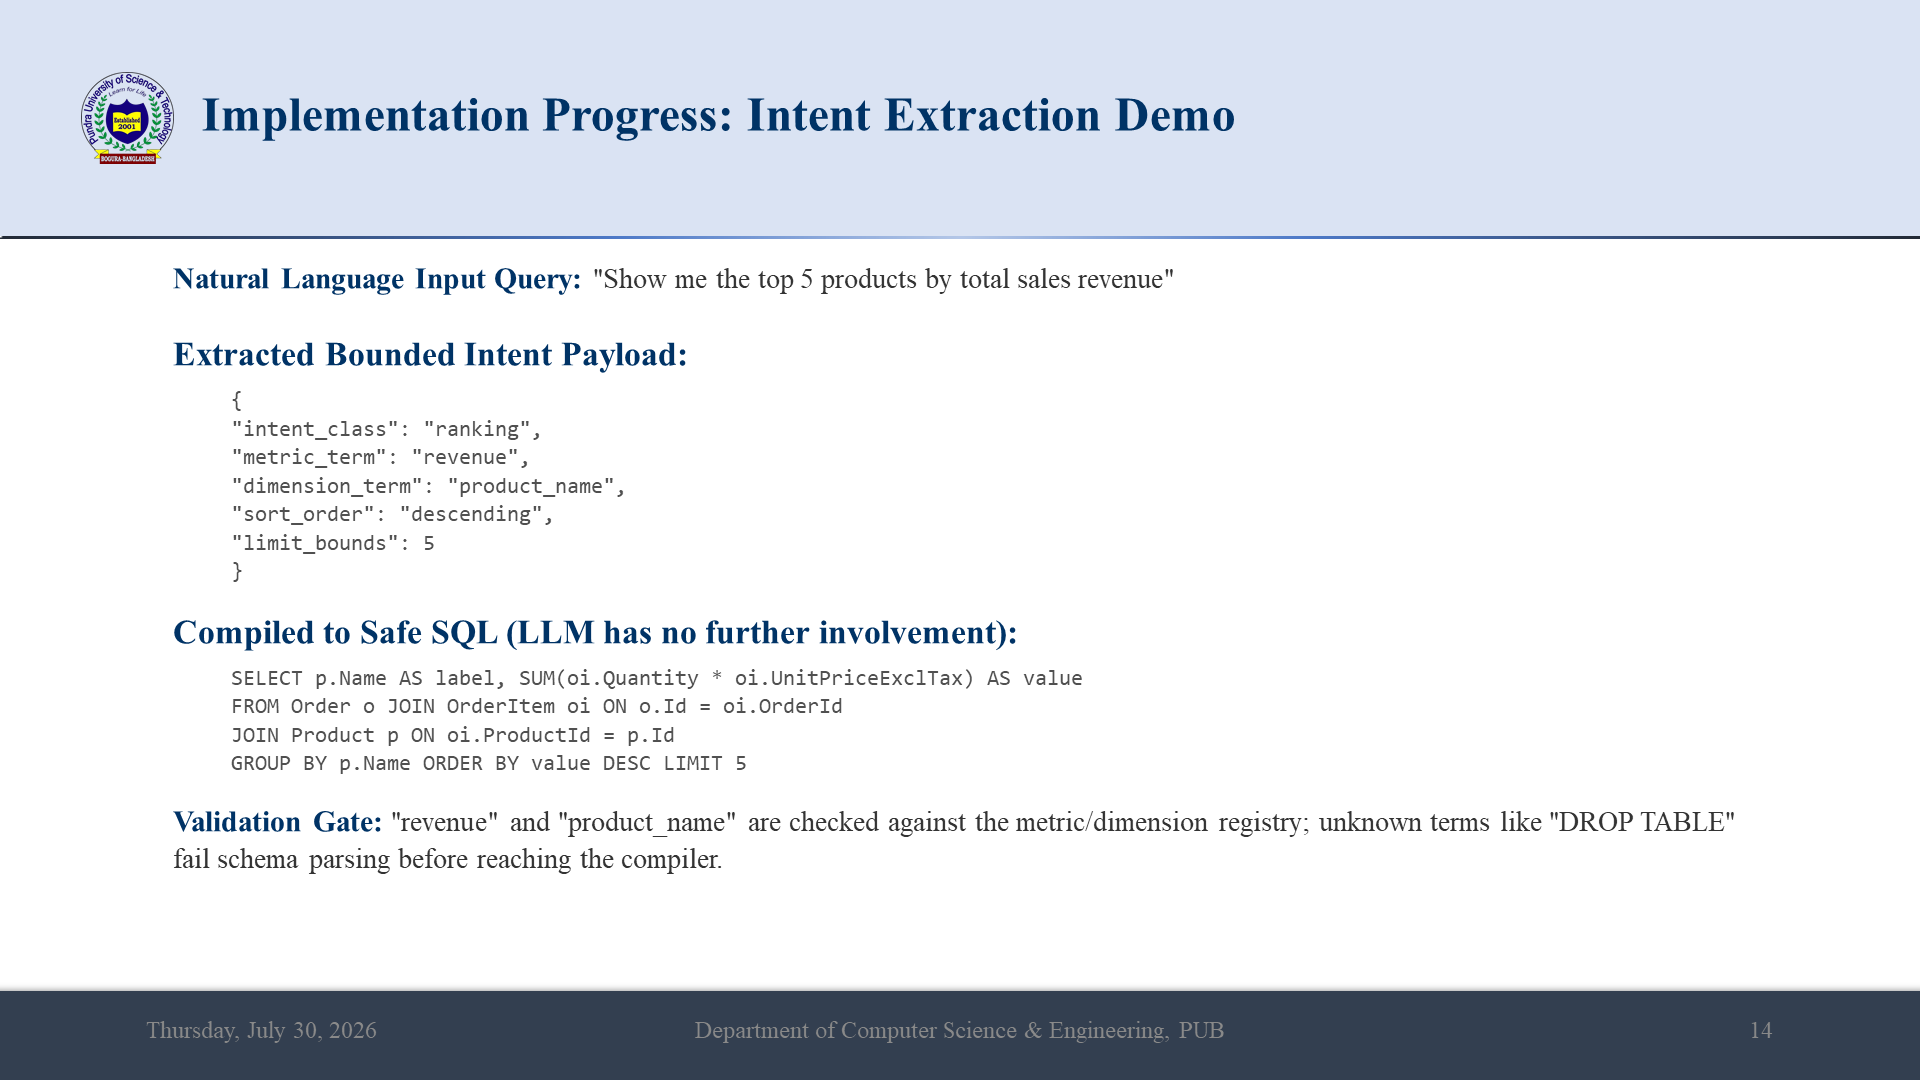
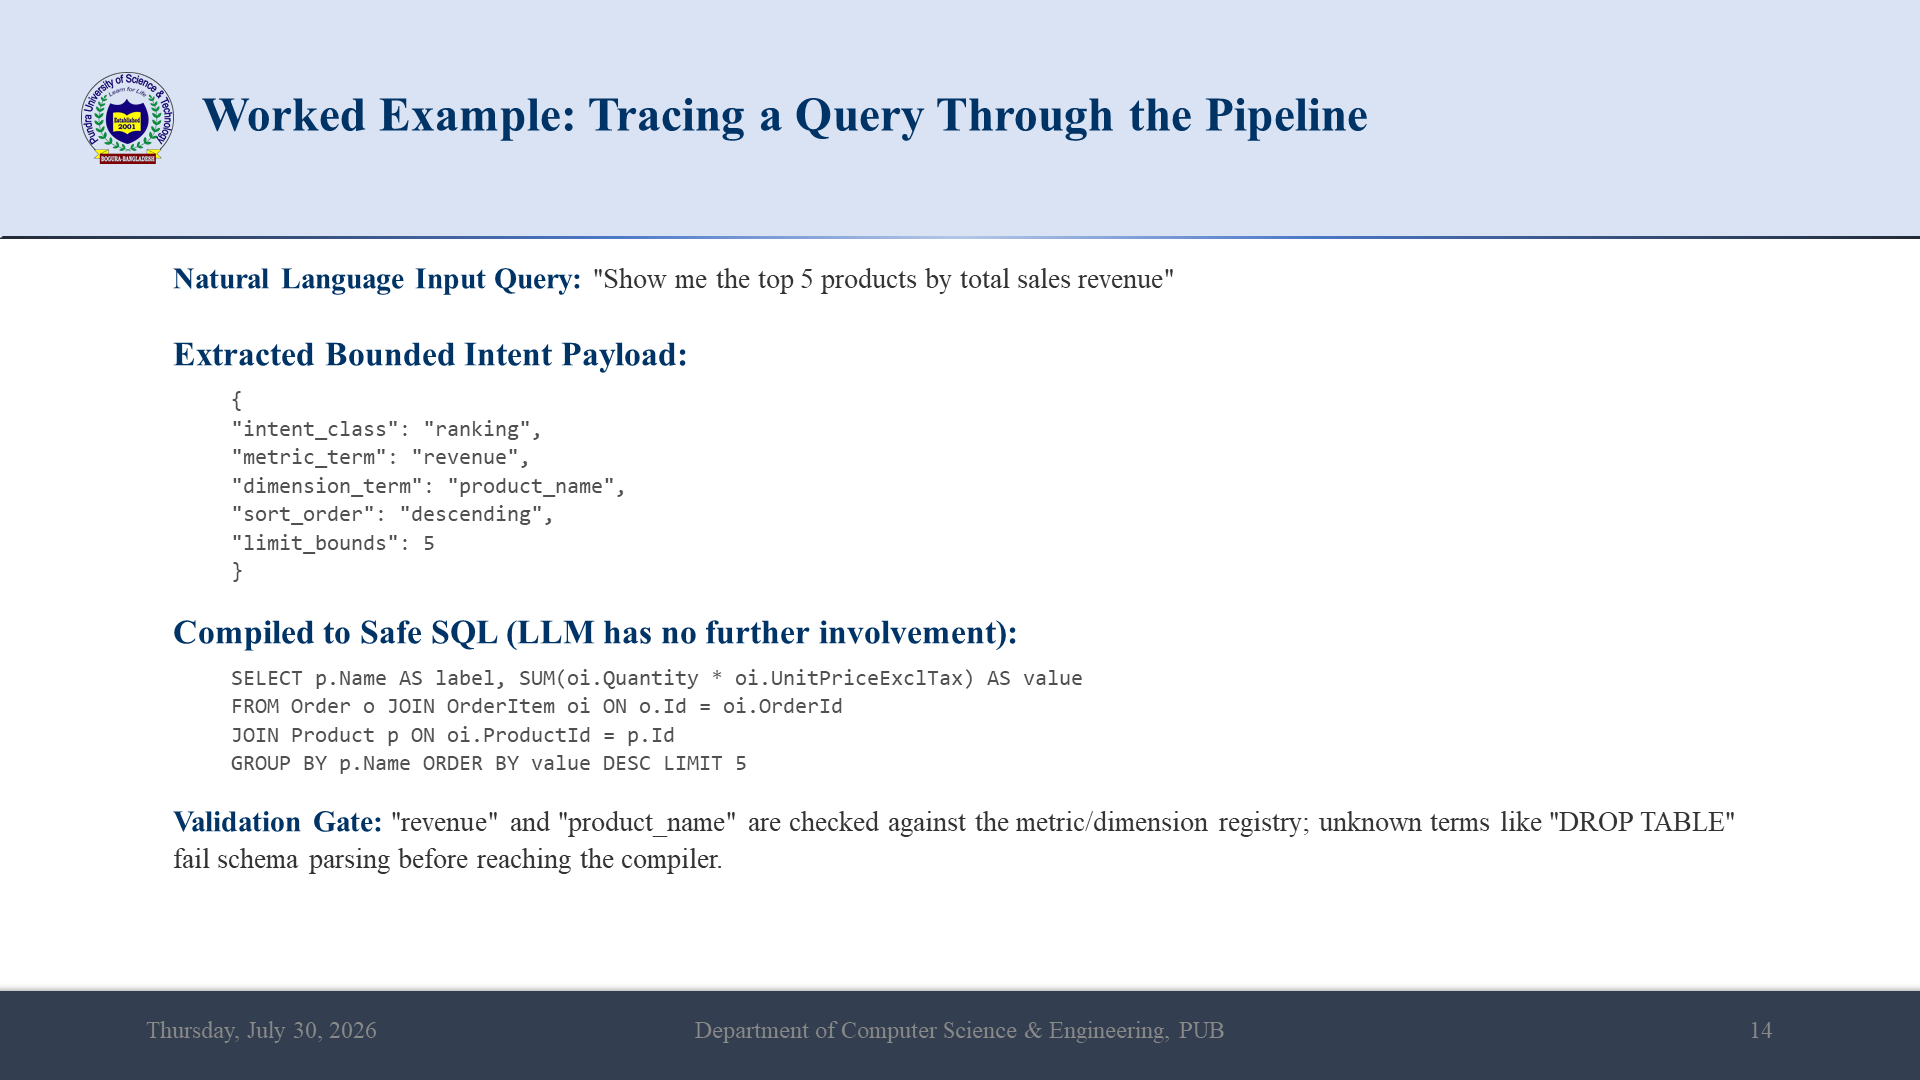
fix(presentation): reframe semantic layer & demo slides as research, not project
Two slides read like a software feature list rather than a thesis
contribution:

- Semantic layer slide led with "15 metrics, 34 dimensions, 11 join
  paths across 12 of 126 tables" as a headline coverage stat - sounds
  like justifying a product's limited scope. Reframed to lead with
  the actual research contribution (a bounded, auditable vocabulary
  that replaces direct schema access) and moved the concrete
  implementation numbers to speaker notes only, for use if the
  committee asks.
- "Implementation Progress: Intent Extraction Demo" was titled and
  framed as a software demo. Retitled to "Worked Example: Tracing a
  Query Through the Pipeline" and reframed the notes to present it as
  illustrating the formal no-SQL-generation claim, not showcasing
  prototype progress.

Swept the rest of the deck for similar phrasing; no other slides had it.

Changed region(s): [[0.0938, 0.0917, 0.7188, 0.1222]]

diff --git a/docs/scripts/generate_riaz_presentation.py b/docs/scripts/generate_riaz_presentation.py
@@ -472,9 +472,9 @@ def create_presentation():
     # -------------------------------------------------------------
     s10 = add_content_slide(
         "The Semantic Layer: Closed-Vocabulary Abstraction",
-        notes="AEGIS introduces a Closed-Vocabulary Semantic Layer. Instead of exposing raw database schemas, the model interacts only with pre-approved metrics and dimensions. Unexposed tables and system metadata remain completely isolated. Concretely: 15 metrics, 34 dimensions, and 11 join paths cover 12 of the 126 tables in the nopCommerce schema - the other 114 (logs, CMS, permissions, vendor data) are simply invisible to the model, which is implicit table-level access control built into the architecture."
+        notes="This is the core theoretical contribution: a finite registry of approved metrics and dimensions that bounds every reachable query to a Cartesian product of the two, rather than an unconstrained SQL string. If the committee asks for concrete numbers: the current nopCommerce prototype instantiates this model with 15 metrics and 34 dimensions across 11 join paths, touching 12 of the schema's 126 tables - the other 114 are system, CMS, and permission tables with no analytics relevance, so their exclusion isn't a coverage limitation, it is the access-control mechanism itself, working exactly as the formal model predicts."
     )
-    add_bullet_text(s10, "Current Semantic Layer Coverage (nopCommerce):\n• 15 metrics, 34 dimensions, 11 join paths across 12 of 126 schema tables.\n• The remaining 114 tables (system logs, CMS content, permissions, vendor data) are simply not in the model's vocabulary - implicit table-level access control by construction.\n\nHow a Question Becomes a Join Path:\n• Revenue by category: Order -> OrderItem -> Product -> Category (4 joins, found by BFS over the join graph)\n• Revenue by country: Order -> Address -> Country (2 joins)\n• The developer defines relationships once; the compiler resolves the shortest path automatically.\n\nSecurity Boundary Enforcement:\n• Any term requested outside the closed vocabulary is rejected by the validation parser before query compilation.", Inches(1.2), Inches(1.8), Inches(11.0), Inches(4.5), font_size=15)
+    add_bullet_text(s10, "The Research Contribution: A Bounded, Auditable Vocabulary\n• Two finite registries, approved metrics (M) and dimensions (D), replace direct schema access; every reachable query is a bounded (metric, dimension) pair, never an unconstrained SQL string.\n• Anything outside these registries is structurally invisible to the model - not a coverage gap, but the actual mechanism by which unauthorized access is prevented by construction.\n\nHow a Question Becomes a Join Path:\n• Revenue by category: Order -> OrderItem -> Product -> Category\n• Revenue by country: Order -> Address -> Country\n• Table relationships are defined once; the compiler finds the shortest path for any (metric, dimension) pair automatically via graph search.\n\nSecurity Boundary Enforcement:\n• Any term outside the closed vocabulary is rejected before query compilation - enforced by validation, not by convention.", Inches(1.2), Inches(1.8), Inches(11.0), Inches(4.5), font_size=16)
 
     # -------------------------------------------------------------
     # SLIDE 11: Threat Model
@@ -603,8 +603,8 @@ def create_presentation():
     # SLIDE 14: Implementation Progress: Intent Extraction
     # -------------------------------------------------------------
     s13 = add_content_slide(
-        "Implementation Progress: Intent Extraction Demo",
-        notes="In our current prototype progress, intent extraction successfully maps user queries into bounded JSON structures. Notice that raw SQL keywords like SELECT, FROM, or WHERE are completely absent from the AI's output - the compiler assembles the SQL afterward from pre-written expressions, so the LLM's own words never touch the query string."
+        "Worked Example: Tracing a Query Through the Pipeline",
+        notes="This trace illustrates the formal claim from the architecture section directly: the LLM's output is a bounded intent object, and the SQL string is assembled afterward from pre-written expressions - the model's own words never appear in the query. Notice that raw SQL keywords like SELECT, FROM, or WHERE are completely absent from the AI's output. An adversarial input such as \"DROP TABLE\" cannot reach the compiler because it is not a recognized metric or dimension term - it fails at the validation gate, not because the model chose to refuse it."
     )
     add_bullet_text(s13, "Natural Language Input Query: \"Show me the top 5 products by total sales revenue\"\n\nExtracted Bounded Intent Payload:\n{\n   \"intent_class\": \"ranking\",\n   \"metric_term\": \"revenue\",\n   \"dimension_term\": \"product_name\",\n   \"sort_order\": \"descending\",\n   \"limit_bounds\": 5\n}\n\nCompiled to Safe SQL (LLM has no further involvement):\n   SELECT p.Name AS label, SUM(oi.Quantity * oi.UnitPriceExclTax) AS value\n   FROM Order o JOIN OrderItem oi ON o.Id = oi.OrderId\n   JOIN Product p ON oi.ProductId = p.Id\n   GROUP BY p.Name ORDER BY value DESC LIMIT 5\n\nValidation Gate: \"revenue\" and \"product_name\" are checked against the metric/dimension registry; unknown terms like \"DROP TABLE\" fail schema parsing before reaching the compiler.", Inches(1.2), Inches(1.8), Inches(11.0), Inches(4.5), font_size=14)
 
